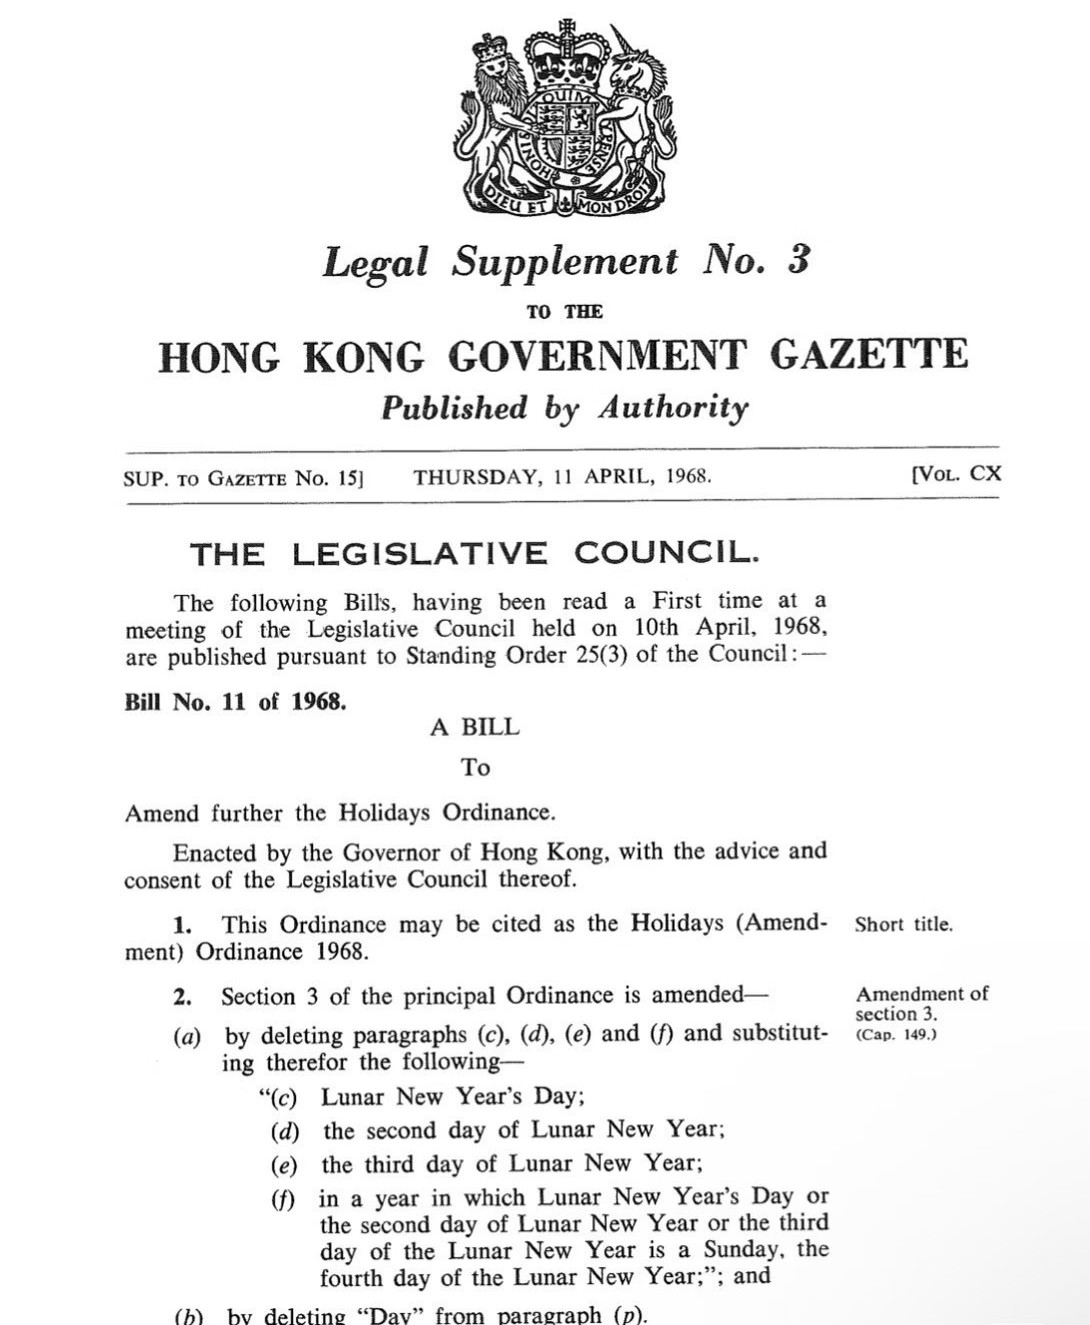
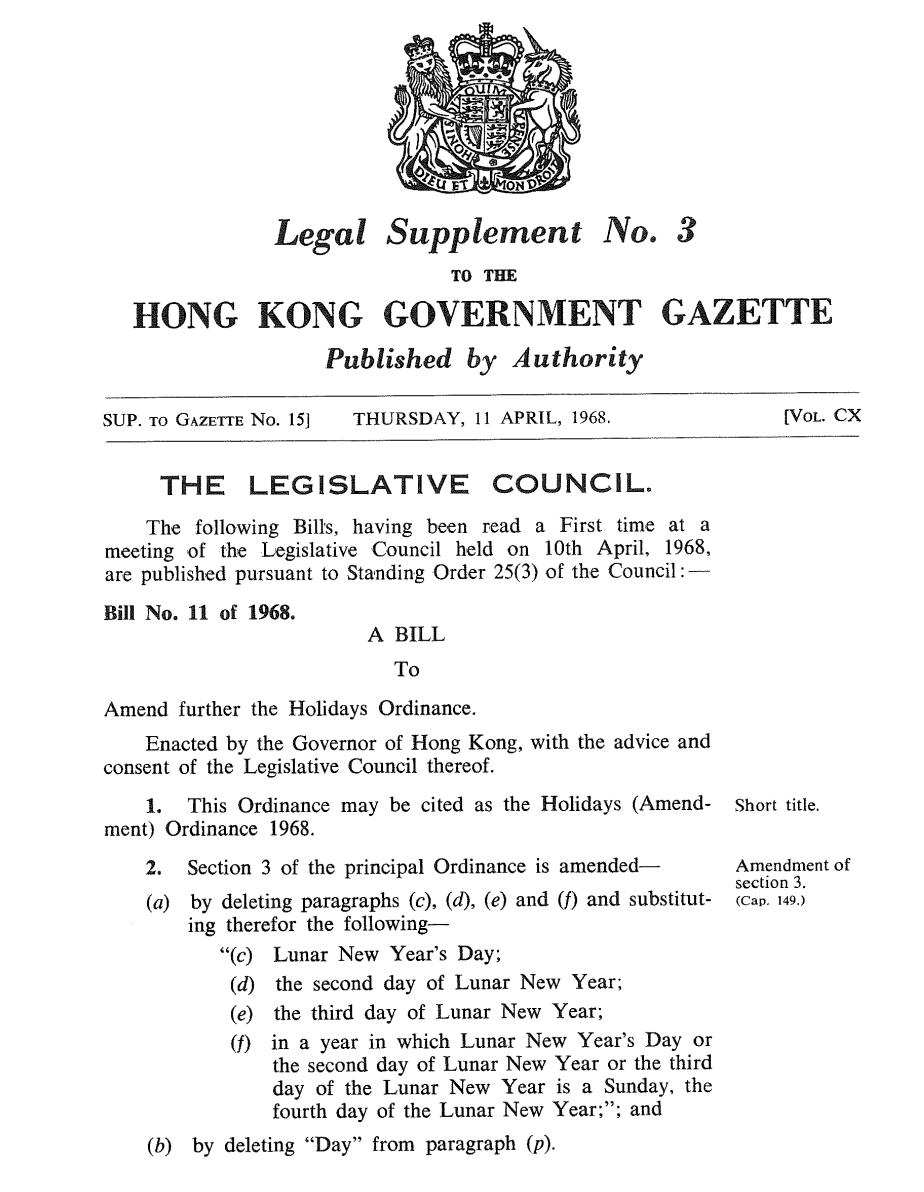
added source pdf source link for UK colonial bill and updated 農曆 contents

Changed region(s): [[0.0909, 0.0, 0.9394, 1.0], [0.7879, 0.6518, 0.9091, 0.807]]

diff --git a/index.html b/index.html
@@ -71,8 +71,8 @@
 
           <p>
             For as long as most people can remember, the world has called it <strong>Chinese New Year</strong>.
-            This holiday — rooted in the Chinese lunisolar calendar, marked by the Chinese zodiac, and celebrated
-            as 春節 / 農曆新年 (<em>Chūnjié</em>, "Spring Festival") across Chinese communities worldwide — has always
+            This holiday — rooted in the Chinese Calendar, marked by the Chinese zodiac, and celebrated
+            as 農曆新年 / 春節 (<em>Chūnjié</em>, "Spring Festival") across Chinese communities worldwide — has always
             carried its cultural identity in its very name.
           </p>
           <p>
@@ -87,8 +87,8 @@
           <h2>What is Chinese New Year?</h2>
 
           <p>
-            Chinese New Year, or <strong>春節</strong>, is the most significant traditional festival in Chinese culture.
-            It marks the beginning of a new year on the <strong>Chinese Calendar (農曆)</strong> — a sophisticated
+            Chinese New Year (<strong>春節 / 農曆新年</strong>) is the most significant traditional festival in Chinese culture.
+            It is the date of a new year on <strong>農曆, the Chinese Calendar</strong> — a sophisticated
             astronomical system developed over thousands of years in China.
           </p>
           <p>
@@ -104,7 +104,7 @@
 
           <h3>How is the Date Determined?</h3>
           <p>
-            In modern times, the date of Chinese New Year is calculated by the <strong>Purple Mountain Observatory</strong>
+            In modern times, the date of new year on the Chinese Calendar is calculated by the <strong>Purple Mountain Observatory</strong>
             (紫金山天文台) in Nanjing, China, based on <strong>China Standard Time (UTC+8)</strong>.
           </p>
           <p>
@@ -129,15 +129,16 @@
             the significant Chinese diaspora communities in those nations.
           </p>
           <p>
-            Also, some East Asian cultures observe their own New Year traditions around the same time, such as:
+            Also, some East Asian cultures adopted traditions from the Chinese New Year (the calendar, the zodiac, etc.)
+            and developed their own New Year traditions celebrated around the same time, such as:
           </p>
           <ul>
-            <li><strong>Tết Nguyên Đán</strong> — Vietnamese New Year</li>
-            <li><strong>Seollal</strong> (설날) — Korean New Year</li>
+            <li><strong>Tết Nguyên Đán</strong> — Vietnamese</li>
+            <li><strong>Seollal</strong> (설날) — Korean</li>
           </ul>
           <p>
             These are distinct cultural celebrations with their own unique customs, foods, rituals, and meanings.
-            They were historically influenced by the Chinese lunisolar calendar and have evolved independently over
+            They were historically influenced by the Chinese Calendar and have evolved independently over
             centuries. This is exactly how cultural exchange works — and it deserves to be acknowledged with
             specificity, not flattened under a single vague label.
           </p>
@@ -151,14 +152,14 @@
 
           <h3>1. It's Scientifically Inaccurate</h3>
           <p>
-            The Chinese calendar is <strong>lunisolar</strong>, not lunar. It incorporates both lunar phases and solar
+            The Chinese Calendar is not lunar. It incorporates both lunar phases and solar
             terms. Calling it "Lunar New Year" is a misnomer that misrepresents the very system it claims to describe.
           </p>
           <p>
             The <strong>Islamic Hijri calendar</strong> is a truly lunar calendar — it does not synchronize with the
-            solar year and drifts roughly 11 days each year relative to the Gregorian calendar. The Islamic New Year
-            (1 Muharram) falls around <strong>June 2026</strong>. <em>That</em> would be an actual "Lunar New Year."
-            Chinese New Year in that same year falls in <strong>February</strong> — precisely because of its
+            solar year and drifts roughly 11 days each year relative to the Gregorian calendar. For instance, in 2026, the Islamic New Year
+            (1 Muharram) falls around <strong>June</strong>. <em>That</em> would be an actual "Lunar New Year."
+            The Chinese New Year in that same year falls in <strong>February</strong> — precisely because of its
             solar component.
           </p>
           <p>
@@ -173,7 +174,8 @@
             The term "Lunar New Year" did not emerge from Asian communities themselves. It was institutionalized
             in English through <strong>British colonial governance in Hong Kong</strong> in 1968 — a context in which the
             deliberate purpose was to de-center Chinese cultural ownership and flatten local identity under
-            colonial administration.
+            colonial administration. [Source: Holidays (Amendment) Bill 1968 — Bill No. 11 of 1968, published in Legal Supplement No. 3 to the Hong Kong Government Gazette on 11 April 1968.
+            PDF via Hong Kong e‑Legislation: <a href="https://www.elegislation.gov.hk/hk/1968/04/11/supp3/1!en" target="_blank">elegislation.gov.hk</a>]
           </p>
           <p>
             When a term is created from above specifically to neutralize a culture's claim to its own traditions,
@@ -221,14 +223,14 @@
           </blockquote>
 
           <p>
-            This approach acknowledges the shared historical roots in the Chinese lunisolar calendar <em>and</em>
+            This approach acknowledges the shared historical roots in the Chinese Calendar <em>and</em>
             honors the distinct cultural evolution of each tradition. It is both historically accurate and genuinely
             inclusive.
           </p>
           <p>
             If an umbrella term must be used, <strong>"Chinese New Year"</strong> or <strong>"Spring Festival"</strong>
-            is far more accurate than "Lunar New Year." The holiday is lunisolar, not lunar. Its date, structure, and
-            system originate from Chinese astronomy. The name should reflect that reality.
+            is far more accurate than "Lunar New Year." The holiday is THE new year's date on the Chinese Calendar. It is lunisolar, not lunar. 
+            Its date, structure, and system originate from Chinese astronomy. The name should reflect that reality.
           </p>
 
           <div class="call-to-action">
@@ -254,27 +256,26 @@
           <h2>「Lunar New Year」的興起</h2>
 
           <p>
-            在大多數人的記憶中，全世界一直稱之為<strong>中國新年</strong>（Chinese New Year）。這個節日──植根於中國農曆、
-            以中國生肖為標誌、被全球華人社區稱為<strong>春節</strong>──其名稱本身便承載著它的文化身份。
+            在大多數人的記憶中，全世界一直稱之為<strong>「Chinese New Year」</strong>。這個植根於中國農曆、
+            以中國生肖為標誌、被全球華人社區稱為<strong>農曆新年</strong>的節日，其名稱本身便承載著它的文化身份。
           </p>
           <p>
             然而近两年來，一場悄無聲息的轉變正在發生。企業、大學和西方機構越來越多地將「Chinese New Year」替換為
-            「Lunar New Year」，將這一更改包裝為包容性的姿態。表面上看，這似乎出於好意。但仔細審視後，這一重新命名引發了嚴肅的問題──關於準確性、關於歷史、關於究竟是誰的身份認同在被服務。
+            「Lunar New Year」，將這一更改包裝為包容性的姿態。表面上看，這似乎出於好意。但仔細審視後，這一重新命名引發了嚴肅的問題 ── 關於準確性、關於歷史、關於究竟是誰的身份認同在被服務。
           </p>
 
-          <h2>什麼是中國新年？</h2>
+          <h2>什麼是農曆新年？</h2>
 
           <p>
-            中國新年，即<strong>春節</strong>，是中華文化中最重要的傳統節日。它標誌著<strong>中國農曆</strong>（陰陽合曆）
-            新年的開始──這是一套在中國歷經數千年發展而成的精密天文曆法系統。
+            農曆新年，即<strong>春節</strong>，是中華文化中最重要的傳統節日。它標誌著<strong>中國農曆</strong>
+            新年的開始。這是一套在中國歷經數千年發展而成的精密天文曆法系統。
           </p>
           <p>
-            與純粹的陰曆不同，中國曆法是<strong>陰陽合曆</strong>：它將太陰月與<strong>二十四節氣</strong>相結合，
+            與純粹的陰曆不同，中國農曆是<strong>陰陽合曆</strong>：它將太陰月與<strong>二十四節氣</strong>相結合，
             使曆法與季節保持一致。正是這一雙重系統使得確定農時成為可能──因此它又被稱為<strong>農曆</strong>。
           </p>
           <p>
-            曆法更深層的結構包括<strong>六十年一循環的天干地支</strong>和<strong>十二年一循環的生肖</strong>──
-            二者皆是中國宇宙觀傳統的獨特產物，在其他曆法系統中沒有對應。
+            曆法更深層的結構包括<strong>六十年一循環的天干地支</strong>和<strong>十二年一循環的生肖</strong>，二者皆是中國宇宙觀傳統的獨特產物，在其他曆法系統中沒有對應。
           </p>
 
           <h3>日期如何確定？</h3>
@@ -283,13 +284,13 @@
             以<strong>中國標準時間（UTC+8）</strong>為基準。
           </p>
           <p>
-            新月──標誌著一個太陰月開始的天文事件──在世界協調時間中發生於一個精確的瞬間。然而，當這一瞬間被轉換為
-            當地時間時，在不同時區可能對應不同的日曆日期。例如，若新月發生在 UTC 23:30，在中國（UTC+8）已是次日，
+            新月 ── 標誌著一個太陰月開始的天文事件 ── 在世界協調時間中發生於一個精確的瞬間。然而，當這一瞬間被轉換為當地時間時，
+            在不同時區可能對應不同的日曆日期。例如，若新月發生在 UTC 23:30，在中國（UTC+8）已是次日，
             而在 UTC+7 的國家仍是前一天。
           </p>
           <p>
-            如果各國根據自己的當地時區來確定新年日期，中國新年便可能在不同國家落在<em>不同的日子</em>。
-            這正是東亞各國<strong>不會</strong>獨立計算日期的原因──它們遵循的是以中國時區為基準的計算結果。
+            如果各國根據自己的當地時區來確定新年日期，農曆新年便可能在不同國家落在<em>不同的日子</em>。
+            這正是東亞各國<strong>不會</strong>獨立計算日期的原因。它們遵循的是以中國時區為基準的計算結果。
             這套曆法，以及驅動它的計算方法，在起源和實踐上都是中國的。
           </p>
 
@@ -298,14 +299,14 @@
             在<strong>泰國</strong>（ตรุษจีน，即「中國新年」）、<strong>馬來西亞</strong>、<strong>新加坡</strong>、
             <strong>菲律賓</strong>和<strong>印尼</strong>，這個節日被廣泛且正式地稱為Chinese New Year。
           </p>
-          <p>另外，也有一些東亞文化在相近的時間慶祝各自的新年傳統，例如：</p>
+          <p>另外，也有一些東亞文化遵循了中國傳統（比如農曆，还有十二生肖），以此發展出各自的新年習俗，并在相近的時間慶祝，例如：</p>
           <ul>
-            <li><strong>설날</strong>（Seollal）── 韓國新年</li>
-            <li><strong>Tết Nguyên Đán</strong> ── 越南新年</li>
+            <li><strong>설날</strong>（Seollal）── 韓國</li>
+            <li><strong>Tết Nguyên Đán</strong> ── 越南</li>
           </ul>
           <p>
             這些都是各具獨特習俗、飲食、儀式和意義的文化慶典。它們在歷史上受到中國農曆的影響，並在數百年間各自獨立發展。
-            這正是文化交流的運作方式──它值得被具體地承認，而非被壓縮在一個模糊的單一標籤之下。
+            這正是文化交流的運作方式 ── 它值得被具體地承認，而非被壓縮在一個模糊的單一標籤之下。
           </p>
           <p>
             承認曆法的中國起源並不會削弱설날的韓國特質或Tết的越南特質。它只是清楚地說明了這套底層系統的來源。
@@ -315,13 +316,13 @@
 
           <h3>一、在科學上不準確</h3>
           <p>
-            中國曆法是<strong>陰陽合曆</strong>，而非純陰曆。它同時包含太陰月相和太陽節氣。稱之為「Lunar New Year」
+            農曆是<strong>陰陽合曆</strong>，而非純陰曆。它同時包含太陰月相和太陽節氣。稱之為「Lunar New Year」
             是一種錯誤稱謂，歪曲了它所聲稱描述的系統本身。
           </p>
           <p>
-            <strong>伊斯蘭希吉里曆</strong>才是真正的純陰曆──它不與太陽年同步，每年相對於公曆漂移約11天。
-            伊斯蘭新年（Muharram 1日）約在<strong>2026年6月</strong>。<em>那</em>才是真正的
-            「Lunar New Year」（陰曆新年）。同年的中國新年在<strong>二月</strong>──正是因為其太陽曆成分。
+            <strong>伊斯蘭希吉里曆</strong>才是真正的純陰曆。它不與太陽年同步，每年相對於公曆漂移約11天。
+            在2026年，伊斯蘭新年（Muharram 1日）大約在<strong>6月</strong>。<em>那</em>才是真正的
+            「Lunar New Year」（陰曆新年）。而同年的農曆新年在<strong>2月</strong> ── 這正是因為其太陽曆成分。
           </p>
           <p>
             對兩個根本不同的曆法系統使用同一名稱，不僅是不精確的──更是誤導性的。
@@ -332,16 +333,16 @@
             <img src="screenshots/lny-colonial-hongkong-root.JPG" alt="「Lunar New Year」一詞的殖民香港起源" loading="lazy">
           </figure>
           <p>
-            「Lunar New Year」一詞並非從亞洲社區中自然產生。它是在1968年通過<strong>英國在香港的殖民統治</strong>被制度化引入英語的──
-            在那個語境下，其刻意目的是削弱中國的文化主體性，將本地身份認同壓平在殖民管治之下。
+            「Lunar New Year」一詞並非從亞洲社區中自然產生。它是在1968年通過<strong>英國在香港的殖民統治</strong>被制度化引入英語的 ──
+            在那個語境下，其刻意目的是削弱中國的文化主體性，將本地身份認同壓平在殖民管治之下。[Source: Holidays (Amendment) Bill 1968 — Bill No. 11 of 1968, published in Legal Supplement No. 3 to the Hong Kong Government Gazette on 11 April 1968.
+            PDF via Hong Kong e‑Legislation: <a href="https://www.elegislation.gov.hk/hk/1968/04/11/supp3/1!en" target="_blank">elegislation.gov.hk</a>]
           </p>
           <p>
-            當一個詞語是從上而下被刻意創造出來、專門用以消解一種文化對其自身傳統的主張時，它的起源並非偶然──
-            而正是其全部要義所在。語言不會僅僅因為時間流逝就自動淨化。我們不會因為「人們現在不是那個意思了」
+            當一個詞語是從上而下被刻意創造出來、專門用以消解一種文化對其自身傳統的主張時，它的起源就並非偶然，而是其全部要義所在。語言不會僅僅因為時間流逝就自動淨化。我們不會因為「人們現在不是那個意思了」
             就接受其他具有殖民或非人化起源的詞語。
           </p>
           <p>
-            使用「Lunar New Year」並非在為這個節日去殖民化──它移除了中國的文化起源，卻仍然依賴中國的曆法。
+            使用「Lunar New Year」並非在為這個節日去殖民化 ── 它移除了中國的文化起源，卻仍然依賴中國的曆法和傳統。
             這不是進步，而是以當代包裝延續殖民邏輯。
           </p>
 
@@ -354,18 +355,18 @@
             <strong>非洲舞蹈傳統</strong>跨越國界時也不會被籠統地改名。
           </p>
           <p>
-            然而說到中國新年，人們卻告訴我們，「包容性」要求從其名稱中移除文化起源──同時繼續使用它的生肖、
+            然而說到「Chinese New Year」，人們卻告訴我們，「包容性」要求從其名稱中移除文化起源 ── 同時繼續使用它的生肖、
             它的曆法和它的日期。
           </p>
           <p>
             這不是包容。這是假借普遍性的名義，有選擇性地抹殺一種文化的身份。
           </p>
           <p>
-            將各不相同的節日壓縮為一個不標明起源的單一標籤，並不是在尊重多元──而是在抹平多元。
+            將各不相同的節日壓縮為一個不標明起源的單一標籤，並不是在尊重多元，而是在抹平多元。
           </p>
 
           <blockquote>
-            <p><strong>「依靠抹去起源來實現的包容不是包容──而是披著禮貌外衣的文化挪用。」</strong></p>
+            <p><strong>「依靠抹去起源來實現的包容不是包容 ── 而是披著禮貌外衣的文化挪用。」</strong></p>
           </blockquote>
 
           <h2>我們應該怎麼稱呼它？</h2>
@@ -374,8 +375,8 @@
 
           <blockquote>
             <p>🎊 <strong>春節快樂</strong>（或者農曆新年快樂）！</p>
-            <p>🎊 <strong>Tết快樂</strong>（越南新年）！</p>
-            <p>🎊 <strong>설날快樂</strong>（韓國新年）！</p>            
+            <p>🎊 <strong>Tết快樂</strong>（越南）！</p>
+            <p>🎊 <strong>설날快樂</strong>（韓國）！</p>            
             <p>🎊 ……以及向所有在這個季節慶祝新年的文化致以新年祝福！</p>
           </blockquote>
 
@@ -392,12 +393,12 @@
           <div class="call-to-action">
             <h3>致全球華人僑胞</h3>
             <p>
-              <strong>請自信而有尊嚴地發聲。</strong>承認這個節日的中國起源並非排他行為。它在歷史上是準確的，
-              在科學上是正確的，在文化上是尊重的。不要讓任何人告訴你，珍視自己的文化傳承是一種排斥行為。
+              <strong>請自信而有尊嚴地發聲。</strong>承認這個節日的中國起源並不意味著排他。它在歷史上是準確的，
+              在科學上是正確的，在文化上是尊重的。不要被當下的舆论裹挟。珍視自己的文化傳承是理所當然的，值得驕傲的！
             </p>
             <p>
-              真正的包容意味著以具體和審慎的態度承認每種文化的貢獻──而非為了那些不了解其中差異之人的舒適感，
-              就將它們全部抹去在一個籠統的標籤之下。
+              真正的包容意味著以具體和審慎的態度承認每種文化的貢獻 ── 而非為了那些不了解其中差異之人的舒適感，
+              就將它們在一個籠統的標籤之下全部抹去。
             </p>
           </div>
 

diff --git a/README.md b/README.md
@@ -13,10 +13,10 @@ A community-driven website that:
 
 The term **Chinese New Year** (春節) carries thousands of years of cultural heritage rooted in the Chinese lunisolar calendar, Chinese cosmology, and Chinese astronomical tradition. Recently, corporations and institutions have been rebranding it as "Lunar New Year" — a term that is:
 
-- **Scientifically inaccurate** (the new year date is calculated using the Chinese Calendar "農曆", which is lunisolar (not lunar). This date is determined scientifically based on the the TIMEZONE AND LONGITUDE OF CHINA)
+- **Scientifically inaccurate** (this date is the new year date on "農曆", the Chinese Calendar, which is NOT a lunar calendar). It is determined scientifically based on the TIMEZONE and LONGITUDE of China)
 - **Historically rooted in colonial erasure** (originating from British colonial governance in Hong Kong in 1968)
 - **Culturally disrespectful** (it culturally appropriates the real lunar new year used by Islamic communities, and purposefully removes Chinese origin in the name of "inclusion")
-- **Contradictory in practice** (institutions rebrand the holiday as "Lunar New Year" yet continue to use almost exclusively Chinese cultural elements — its red theme, 12 zodiac animals, red envelopes, lion dance — in their promotional materials and advertisements, undermining their own claim of inclusivity)
+- **Contradictory in practice** (institutions rebrand the holiday as "Lunar New Year" to target broader audiences yet continue to use almost exclusively Chinese cultural elements — such as its red theme, 12 zodiac animals, red envelopes, lion dance — in their promotional materials and advertisements, undermining their own claim of inclusivity)
 
 This project advocates for preserving the correct name and educating people about why it matters.
 
